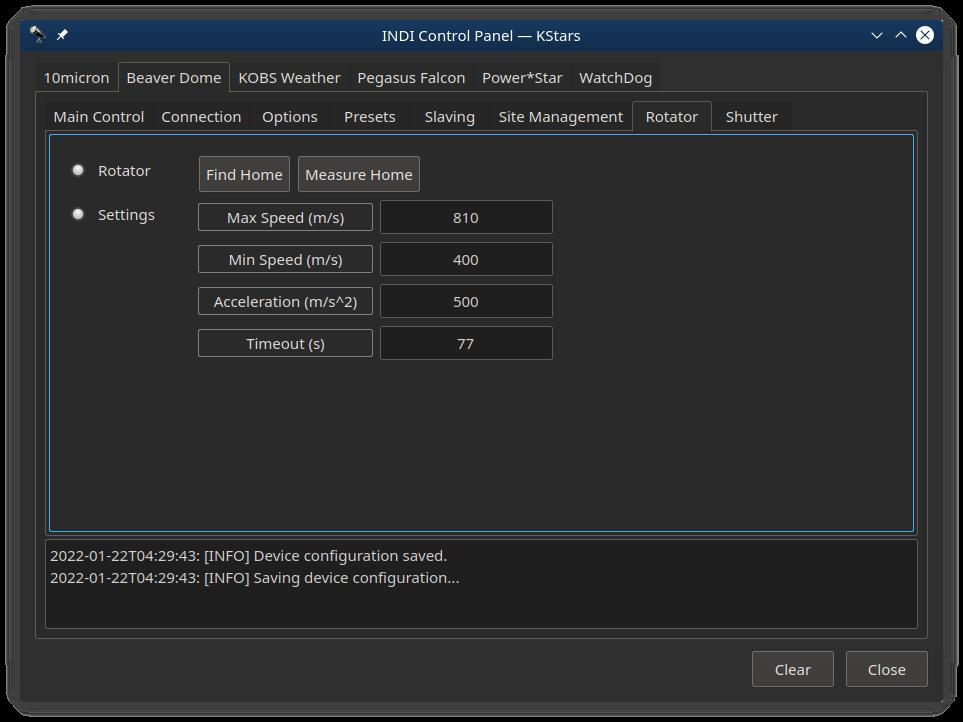
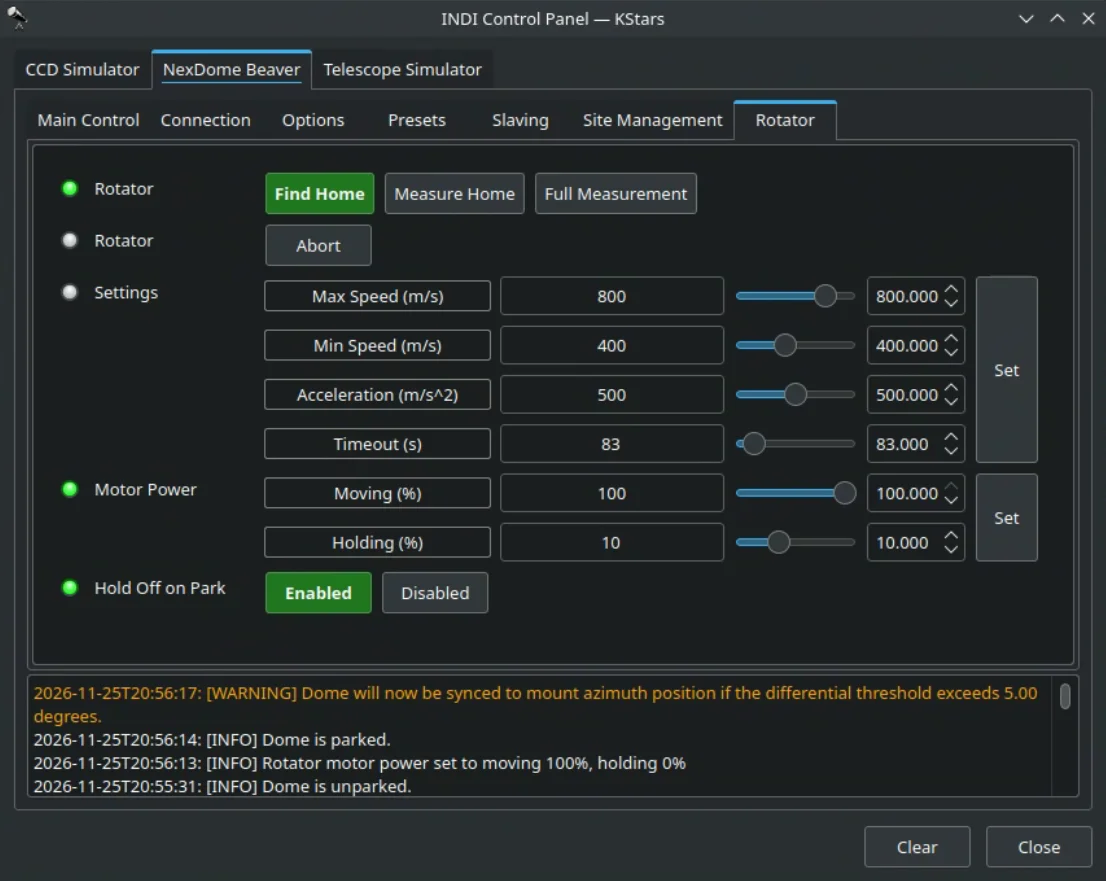
NexDome Beaver 1.2: sync, moving and holding power, and Hold Off on Park

diff --git a/src/content/docs/domes/nexdome/nexdome-beaver/nexdome-beaver.md b/src/content/docs/domes/nexdome/nexdome-beaver/nexdome-beaver.md
@@ -32,6 +32,8 @@ NexDome is a fully automatic observatory dome control system. Link your dome to 
 -   Rotation-only and full shutter-and-rotation available
 -   Dome and Shutter status
 -   Rotator homing and park
+-   Sync the rotator position without moving the dome (driver 1.2)
+-   Rotator moving and holding power, with the holding power switched off while parked (driver 1.2)
 -   Motor control (Mmx/min speeds, acceleration and timeouts)
 -   Direct confirmation of shutter open/closed state
 -   Slave dome rotation to your telescope
@@ -103,6 +105,8 @@ Absolute Position will move the dome AZ relative to what you set the Home Offset
 
 Dome and Shutter Status fields will display any errors, idle, moving, etc.
 
+Sync sets the current dome azimuth without moving the dome, for example after the dome was pushed by hand or slipped. It is refused while the rotator is moving.
+
 The Shutter Volts field displays the current voltage of the shutter battery. In combination with the Safe Voltage on the Shutter tab, this can trigger the rotator controller to go into safety mode and call for the shutter to close.
 
 -   Shutter Volts and Status fields will not show if the shutter controller is off or not in communication.
@@ -164,6 +168,20 @@ See this [Reference] ([https://www.nexdome.com/_files/ugd/8a866a_9cd260bfa6de414
     -   You should not change these unless you know what you are doing!
     -   To reset the rotator parameters back to defaults, click the 'Measure Home' button
 -   To Park or unPark the dome or goto Home, see the Main tab
+
+**Motor Power** (driver 1.2, controllers that report motor power):
+
+-   Moving (%) is the motor current while the dome rotates.
+-   Holding (%) is the motor current while the dome stands still, from 0 to 30 % (the controller's limit).
+    With 0 the motor is unpowered at rest and the dome can drift or roll back a little after a move.
+    A low holding power such as 10 % keeps the dome in place; the motor may hum faintly.
+-   A change applies at once when the dome is idle, or at the end of the current move.
+-   The values are stored in the controller and in the driver configuration.
+
+**Hold Off on Park** (default Enabled): switches the holding power off while the dome is parked, so the motor
+is silent and unpowered. Unpark restores the holding power. Set it to Disabled to keep holding while parked.
+
+Connecting to the driver or loading its configuration never switches the motor on or off.
 
 After settings the parameters above, go to Options tab and click Save in Configurations so that the parameters are used in future sessions.
 
